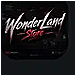
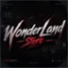
Can chinh can doi 100% TxH va WonderLand va fix triet de 2 loi nut Am Thanh va nut Play

diff --git a/index.html b/index.html
@@ -55,18 +55,15 @@
     .community-banner {
       position: relative !important;
       width: 100% !important;
-      height: 105px !important;
+      height: 80px !important;
+      aspect-ratio: 314 / 76 !important;
       overflow: hidden !important;
       background: #0d0f15 !important;
-      border-bottom: 1px solid rgba(255, 255, 255, 0.05) !important;
+      border-bottom: 1px solid rgba(255, 255, 255, 0.08) !important;
     }
 
     .community-banner::after {
-      content: '' !important;
-      position: absolute !important;
-      inset: 0 !important;
-      background: linear-gradient(to bottom, rgba(0, 0, 0, 0.15) 0%, transparent 40%, rgba(18, 20, 28, 0.95) 100%) !important;
-      pointer-events: none !important;
+      display: none !important;
     }
 
     .community-banner-img {
@@ -316,7 +313,7 @@
       <span id="fps-text">120 FPS</span>
     </div>
     <button id="toggle-video-sound" class="dragon-action-btn" title="Bật / Tắt Tiếng Video">
-      <i class="fa-solid fa-volume-high" id="sound-btn-icon"></i>
+      <i class="fa-solid fa-volume-xmark" id="sound-btn-icon"></i>
       <span id="sound-btn-text">Âm Thanh</span>
     </button>
   </div>
@@ -548,8 +545,7 @@
             <!-- Server 1: TxH Corporation -->
             <a href="https://discord.gg/" target="_blank" rel="noopener" class="discord-community-card" data-tilt="3d" data-tilt-max="10" style="text-decoration:none !important; color:#ffffff !important; display:flex !important; flex-direction:column !important; background:#141620 !important; border:1px solid rgba(255,255,255,0.1) !important; border-radius:16px !important; overflow:hidden !important; box-shadow:0 12px 32px rgba(0,0,0,0.8) !important;">
               <div class="card-3d-glare"></div>
-              <div class="community-banner" style="position:relative; width:100%; height:110px; overflow:hidden; background:#0d0f15;">
-                <span class="community-badge-tag" style="position:absolute; top:10px; left:12px; z-index:2; font-family:'Cinzel', sans-serif; font-size:0.62rem; font-weight:800; letter-spacing:0.14em; text-transform:uppercase; color:#fff; background:rgba(8,10,16,0.7); backdrop-filter:blur(8px); padding:3px 8px; border-radius:6px; border:1px solid rgba(255,255,255,0.15);">THE COLLECTIVE</span>
+              <div class="community-banner" style="position:relative; width:100%; height:80px; aspect-ratio:314/76; overflow:hidden; background:#0d0f15;">
                 <img src="banner-txh.png" alt="TxH Corporation Banner" class="community-banner-img" style="width:100%; height:100%; object-fit:cover; display:block;">
               </div>
               <div class="community-body" style="padding:14px 16px 14px; display:flex; flex-direction:column; gap:10px; flex:1; text-decoration:none;">
@@ -576,8 +572,7 @@
             <!-- Server 2: WonderLand Store -->
             <a href="https://discord.gg/RcCabQNnr" target="_blank" rel="noopener" class="discord-community-card" data-tilt="3d" data-tilt-max="10" style="text-decoration:none !important; color:#ffffff !important; display:flex !important; flex-direction:column !important; background:#141620 !important; border:1px solid rgba(255,255,255,0.1) !important; border-radius:16px !important; overflow:hidden !important; box-shadow:0 12px 32px rgba(0,0,0,0.8) !important;">
               <div class="card-3d-glare"></div>
-              <div class="community-banner" style="position:relative; width:100%; height:110px; overflow:hidden; background:#0d0f15;">
-                <span class="community-badge-tag" style="position:absolute; top:10px; left:12px; z-index:2; font-family:'Cinzel', sans-serif; font-size:0.62rem; font-weight:800; letter-spacing:0.14em; text-transform:uppercase; color:#fff; background:rgba(8,10,16,0.7); backdrop-filter:blur(8px); padding:3px 8px; border-radius:6px; border:1px solid rgba(255,255,255,0.15);">BEYOND THE ORDINARY</span>
+              <div class="community-banner" style="position:relative; width:100%; height:80px; aspect-ratio:314/76; overflow:hidden; background:#0d0f15;">
                 <img src="banner-wonderland.png" alt="WonderLand Store Banner" class="community-banner-img" style="width:100%; height:100%; object-fit:cover; display:block;">
               </div>
               <div class="community-body" style="padding:14px 16px 14px; display:flex; flex-direction:column; gap:10px; flex:1; text-decoration:none;">

diff --git a/lephat.html b/lephat.html
@@ -55,18 +55,15 @@
     .community-banner {
       position: relative !important;
       width: 100% !important;
-      height: 105px !important;
+      height: 80px !important;
+      aspect-ratio: 314 / 76 !important;
       overflow: hidden !important;
       background: #0d0f15 !important;
-      border-bottom: 1px solid rgba(255, 255, 255, 0.05) !important;
+      border-bottom: 1px solid rgba(255, 255, 255, 0.08) !important;
     }
 
     .community-banner::after {
-      content: '' !important;
-      position: absolute !important;
-      inset: 0 !important;
-      background: linear-gradient(to bottom, rgba(0, 0, 0, 0.15) 0%, transparent 40%, rgba(18, 20, 28, 0.95) 100%) !important;
-      pointer-events: none !important;
+      display: none !important;
     }
 
     .community-banner-img {
@@ -316,7 +313,7 @@
       <span id="fps-text">120 FPS</span>
     </div>
     <button id="toggle-video-sound" class="dragon-action-btn" title="Bật / Tắt Tiếng Video">
-      <i class="fa-solid fa-volume-high" id="sound-btn-icon"></i>
+      <i class="fa-solid fa-volume-xmark" id="sound-btn-icon"></i>
       <span id="sound-btn-text">Âm Thanh</span>
     </button>
   </div>
@@ -548,8 +545,7 @@
             <!-- Server 1: TxH Corporation -->
             <a href="https://discord.gg/" target="_blank" rel="noopener" class="discord-community-card" data-tilt="3d" data-tilt-max="10" style="text-decoration:none !important; color:#ffffff !important; display:flex !important; flex-direction:column !important; background:#141620 !important; border:1px solid rgba(255,255,255,0.1) !important; border-radius:16px !important; overflow:hidden !important; box-shadow:0 12px 32px rgba(0,0,0,0.8) !important;">
               <div class="card-3d-glare"></div>
-              <div class="community-banner" style="position:relative; width:100%; height:110px; overflow:hidden; background:#0d0f15;">
-                <span class="community-badge-tag" style="position:absolute; top:10px; left:12px; z-index:2; font-family:'Cinzel', sans-serif; font-size:0.62rem; font-weight:800; letter-spacing:0.14em; text-transform:uppercase; color:#fff; background:rgba(8,10,16,0.7); backdrop-filter:blur(8px); padding:3px 8px; border-radius:6px; border:1px solid rgba(255,255,255,0.15);">THE COLLECTIVE</span>
+              <div class="community-banner" style="position:relative; width:100%; height:80px; aspect-ratio:314/76; overflow:hidden; background:#0d0f15;">
                 <img src="banner-txh.png" alt="TxH Corporation Banner" class="community-banner-img" style="width:100%; height:100%; object-fit:cover; display:block;">
               </div>
               <div class="community-body" style="padding:14px 16px 14px; display:flex; flex-direction:column; gap:10px; flex:1; text-decoration:none;">
@@ -576,8 +572,7 @@
             <!-- Server 2: WonderLand Store -->
             <a href="https://discord.gg/RcCabQNnr" target="_blank" rel="noopener" class="discord-community-card" data-tilt="3d" data-tilt-max="10" style="text-decoration:none !important; color:#ffffff !important; display:flex !important; flex-direction:column !important; background:#141620 !important; border:1px solid rgba(255,255,255,0.1) !important; border-radius:16px !important; overflow:hidden !important; box-shadow:0 12px 32px rgba(0,0,0,0.8) !important;">
               <div class="card-3d-glare"></div>
-              <div class="community-banner" style="position:relative; width:100%; height:110px; overflow:hidden; background:#0d0f15;">
-                <span class="community-badge-tag" style="position:absolute; top:10px; left:12px; z-index:2; font-family:'Cinzel', sans-serif; font-size:0.62rem; font-weight:800; letter-spacing:0.14em; text-transform:uppercase; color:#fff; background:rgba(8,10,16,0.7); backdrop-filter:blur(8px); padding:3px 8px; border-radius:6px; border:1px solid rgba(255,255,255,0.15);">BEYOND THE ORDINARY</span>
+              <div class="community-banner" style="position:relative; width:100%; height:80px; aspect-ratio:314/76; overflow:hidden; background:#0d0f15;">
                 <img src="banner-wonderland.png" alt="WonderLand Store Banner" class="community-banner-img" style="width:100%; height:100%; object-fit:cover; display:block;">
               </div>
               <div class="community-body" style="padding:14px 16px 14px; display:flex; flex-direction:column; gap:10px; flex:1; text-decoration:none;">

diff --git a/style.css b/style.css
@@ -206,31 +206,43 @@ img, video {
 }
 
 .dragon-action-btn {
-  background: linear-gradient(135deg, #0077b6, #00b4d8, #ff7700);
-  background-size: 200% 200%;
-  border: 1px solid rgba(255, 255, 255, 0.25);
-  color: #fff;
-  padding: 10px 20px;
-  border-radius: 30px;
-  font-family: 'Cinzel', serif;
-  font-weight: 800;
-  font-size: 0.9rem;
-  letter-spacing: 0.05em;
+  background: rgba(14, 18, 28, 0.85);
+  border: 1px solid rgba(255, 255, 255, 0.16);
+  color: #e2e8f0;
+  padding: 8px 16px;
+  border-radius: 20px;
+  font-family: 'Outfit', 'Plus Jakarta Sans', sans-serif;
+  font-weight: 700;
+  font-size: 0.82rem;
+  letter-spacing: 0.04em;
   cursor: pointer;
   display: inline-flex;
   align-items: center;
   gap: 8px;
-  box-shadow: 0 0 20px rgba(0, 180, 216, 0.5);
-  transition: transform 0.2s ease, box-shadow 0.2s ease;
+  backdrop-filter: blur(12px);
+  -webkit-backdrop-filter: blur(12px);
+  box-shadow: 0 4px 16px rgba(0, 0, 0, 0.5);
+  transition: all 0.25s cubic-bezier(0.16, 1, 0.3, 1);
+  outline: none !important;
+  -webkit-tap-highlight-color: transparent !important;
 }
 
 .dragon-action-btn:hover {
-  transform: translateY(-2px) scale(1.05);
-  box-shadow: 0 0 30px rgba(0, 210, 255, 0.85);
+  border-color: rgba(0, 210, 255, 0.5);
+  color: #00d2ff;
+  transform: translateY(-2px);
+  box-shadow: 0 6px 20px rgba(0, 210, 255, 0.35);
 }
 
 .dragon-action-btn:active {
   transform: scale(0.96);
+}
+
+.dragon-action-btn.active {
+  background: linear-gradient(135deg, #0080ff, #00d2ff);
+  border-color: rgba(255, 255, 255, 0.5);
+  color: #ffffff;
+  box-shadow: 0 0 24px rgba(0, 210, 255, 0.7);
 }
 
 /* Main Profile Container (Widescreen Horizontal Layout) */
@@ -727,8 +739,8 @@ img, video {
   display: flex;
   align-items: center;
   justify-content: space-between;
-  transform: translateZ(36px);
-  transform-style: preserve-3d;
+  position: relative;
+  z-index: 5;
 }
 
 .ctrl-btn {
@@ -739,30 +751,47 @@ img, video {
   cursor: pointer;
   transition: color 0.2s ease, transform 0.2s ease;
   padding: 6px 10px;
+  outline: none !important;
+  -webkit-tap-highlight-color: transparent !important;
 }
 
 .ctrl-btn:hover {
   color: #00d2ff;
-  transform: scale(1.15) translateZ(15px);
+  transform: scale(1.15);
 }
 
 .play-btn {
-  width: 44px;
-  height: 44px;
+  width: 46px;
+  height: 46px;
+  min-width: 46px;
+  min-height: 46px;
   border-radius: 50%;
-  background: linear-gradient(135deg, #0077b6, #00d2ff);
-  color: #fff;
+  background: linear-gradient(135deg, #0080ff, #00d2ff);
+  color: #ffffff;
   display: flex;
   align-items: center;
   justify-content: center;
   font-size: 1.15rem;
-  box-shadow: 0 0 20px rgba(0, 210, 255, 0.7);
+  box-shadow: 0 0 22px rgba(0, 210, 255, 0.75), 0 4px 14px rgba(0, 0, 0, 0.4);
+  border: 1px solid rgba(255, 255, 255, 0.35);
+  outline: none !important;
+  cursor: pointer;
   transition: transform 0.25s cubic-bezier(0.34, 1.56, 0.64, 1), box-shadow 0.25s ease;
+  -webkit-font-smoothing: antialiased;
+  -moz-osx-font-smoothing: grayscale;
+}
+
+.play-btn #play-icon.fa-play {
+  margin-left: 3px;
+}
+
+.play-btn #play-icon.fa-pause {
+  margin-left: 0;
 }
 
 .play-btn:hover {
-  transform: scale(1.12) translateZ(20px);
-  box-shadow: 0 0 30px rgba(0, 210, 255, 0.95);
+  transform: scale(1.1);
+  box-shadow: 0 0 32px rgba(0, 210, 255, 0.95);
 }
 
 .volume-container {
@@ -1460,17 +1489,14 @@ img, video {
 .community-banner {
   position: relative;
   width: 100%;
-  height: 105px;
+  height: 80px;
+  aspect-ratio: 314 / 76;
   overflow: hidden;
   background: #0f1117;
 }
 
 .community-banner::after {
-  content: '';
-  position: absolute;
-  inset: 0;
-  background: linear-gradient(to bottom, rgba(0, 0, 0, 0.2) 0%, transparent 45%, rgba(18, 19, 26, 0.92) 100%);
-  pointer-events: none;
+  display: none;
 }
 
 .community-banner-img {

diff --git a/script.js b/script.js
@@ -64,7 +64,10 @@ function playSoundtrack() {
     playPromise.then(() => {
       hasStartedMusic = true;
       setMusicUIPlaying(true);
-      removeUnlockListeners();
+      ['pointerdown', 'touchstart', 'click'].forEach(evt => {
+        window.removeEventListener(evt, unlockAudioOnce);
+        document.removeEventListener(evt, unlockAudioOnce);
+      });
     }).catch(() => {
       // Browser Autoplay Policy requires user gesture
       setMusicUIPlaying(false);
